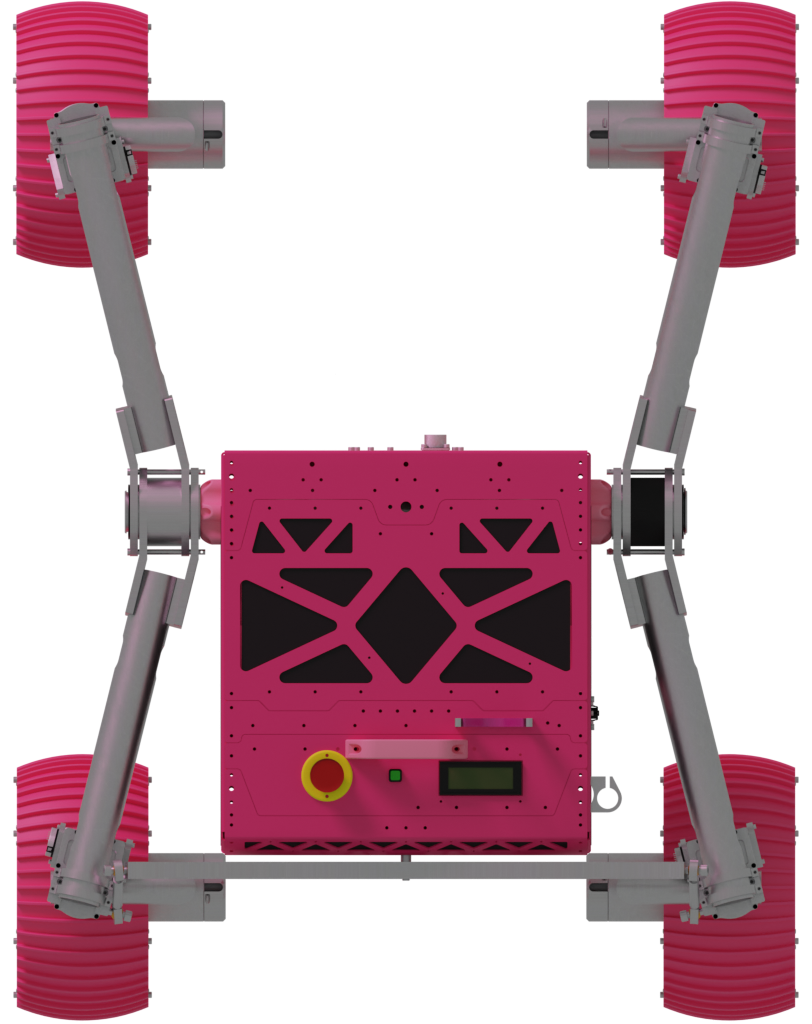
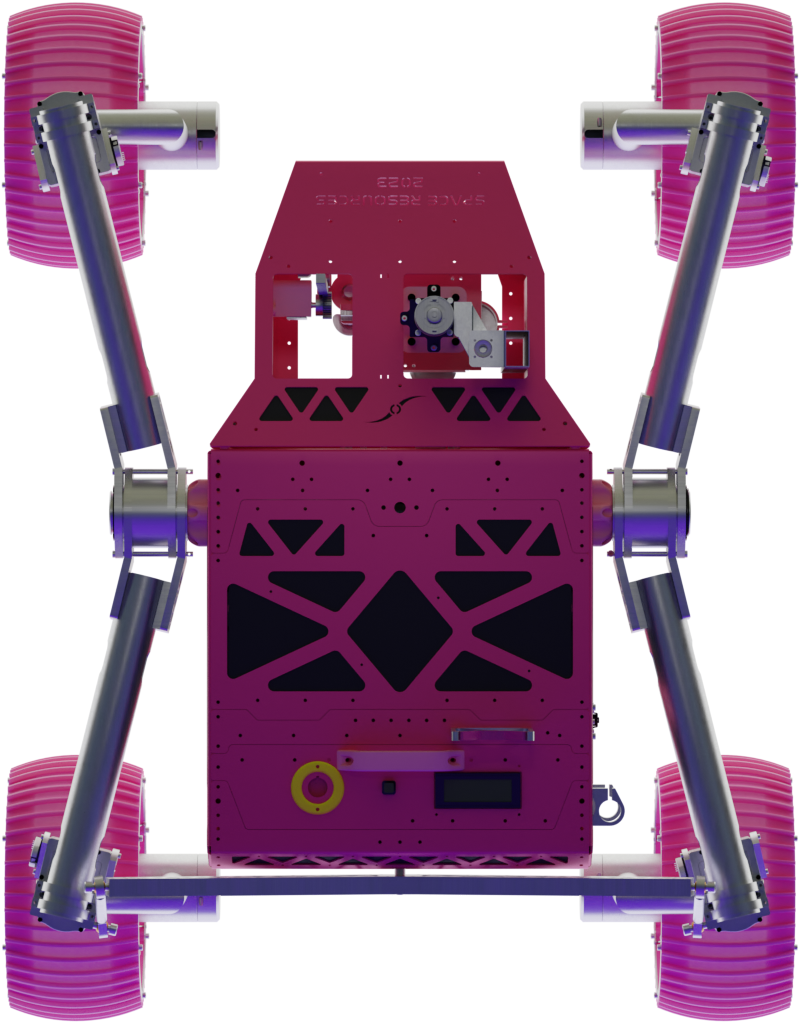
fix: made rover-top-down.png dark

diff --git a/src/ros/nova-gui/nova-gui/src/components/WheelTelemetryWidget/WheelTelemetryWidget.tsx b/src/ros/nova-gui/nova-gui/src/components/WheelTelemetryWidget/WheelTelemetryWidget.tsx
@@ -67,7 +67,7 @@ const WheelTelemetryWidget: React.FC<IDriveWheelWidgetProps> = (props: IDriveWhe
           <span className="text-default-300 text-opacity-80">
             <ChevronUp size={20}></ChevronUp>
           </span>
-          <Image className="" radius="none" src={RoverTopDownImage}></Image>
+          <Image className="mx-2" radius="none" src={RoverTopDownImage}></Image>
         </div>
         {cellProps.map((cellProp, index) => (
             <WheelTelemetryWidgetCell
